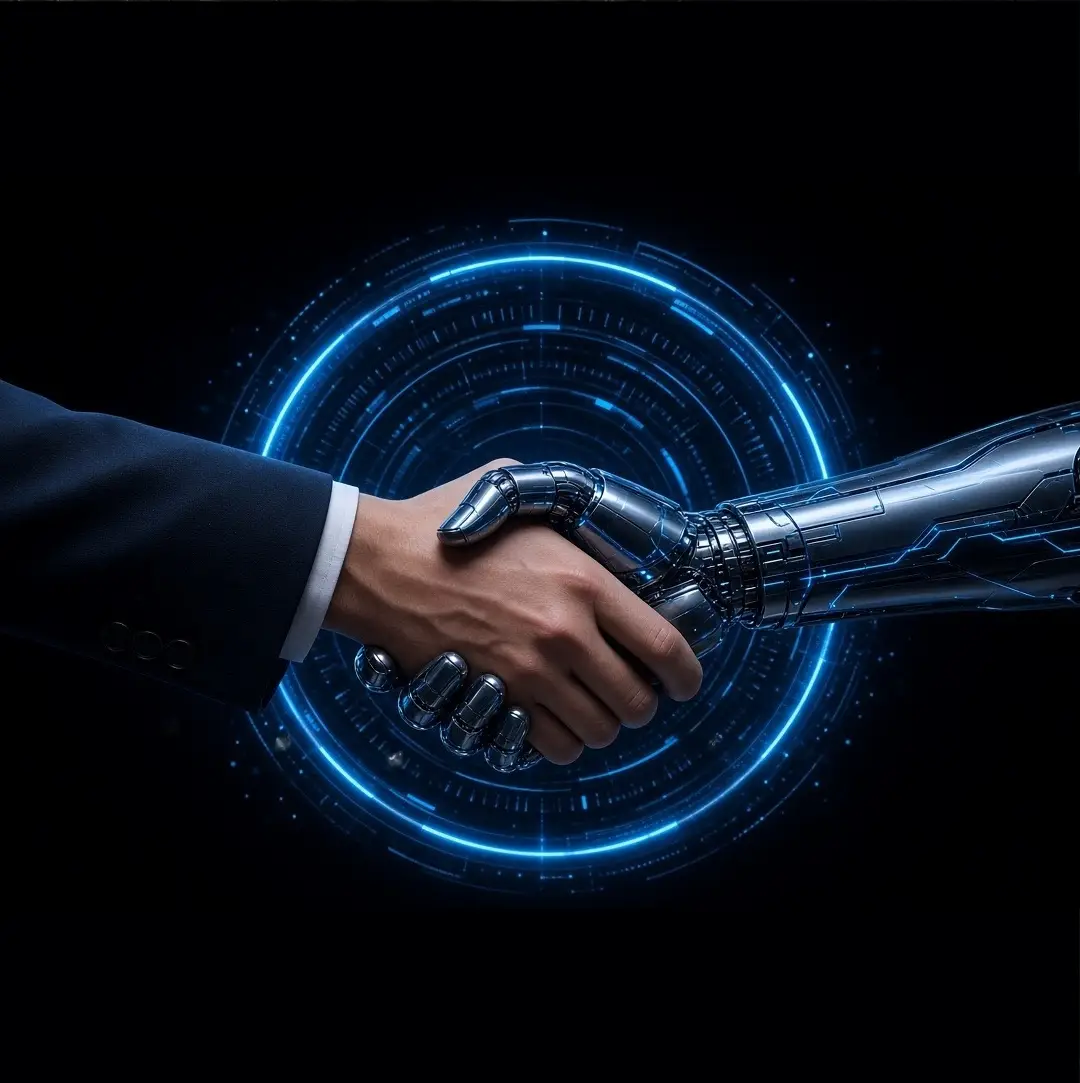
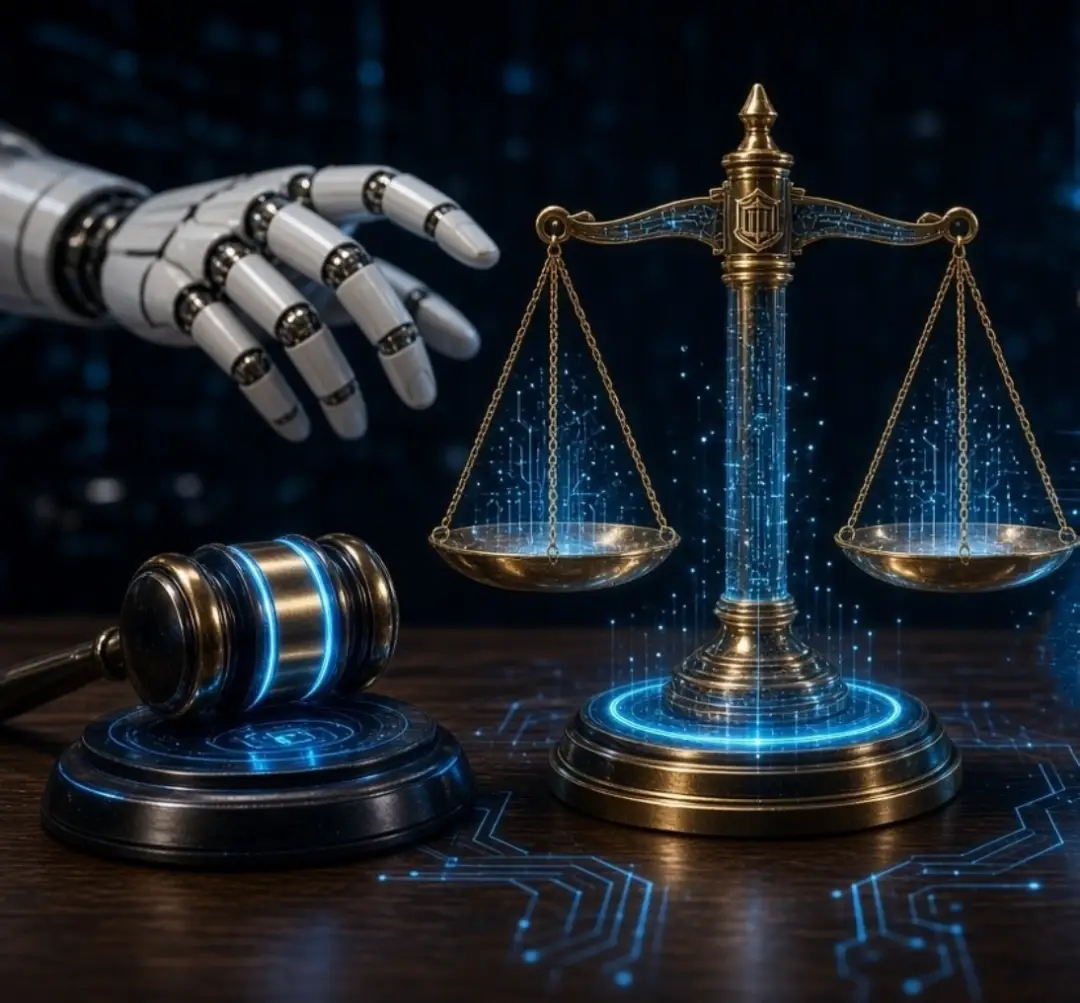
change background color header fixes
change background color header fixes

diff --git a/index.html b/index.html
@@ -20,7 +20,7 @@
   <link rel="stylesheet" href="assets/css/owl.theme.default.min.css">
 </head>
 <body>
- <section class="topbar">
+ <!-- <section class="topbar">
    <div class="container pt-2 pb-2">
      <div class="row d-flex align-items-center">
        <div class="col-xxl-6 col-xl-6 col-lg-6 col-md-12 d-flex justify-content-center justify-content-lg-start">
@@ -42,9 +42,9 @@
        </div>
      </div>
    </div>
- </section>
+ </section> -->
  <header class="headerfixed">
-    <div class="container ">
+    <div class="container">
         <nav class="navbar navbar-expand-lg justify-content-between pt-0 pb-0">
           <a href="#" class="logo"><img src="assets/images/e-logo.webp" alt="" title="" /></a>
             <div class="menu-bar">
@@ -54,11 +54,16 @@
                   <li><a href="#" class="active">Home</a></li>
                   <li><a href="#">About Us</a></li>
                   <li><a href="#">Contact Us</a></li>
-                  
+                  <li><a href="#">Faqs</a></li>
                 </ul>
                 <div class="ms-2 ms-lg-1 ms-xl-5 d-lg-flex gap-2">
                   <a href="#" class="login-btn mb-lg-0 mb-2"><i class="bi bi-box-arrow-in-right me-2"></i>Login</a>
-                 <a href="#" class="attoyer-btn"><i class="bi bi-person-fill me-2"></i>Sign Up</a>
+                  <a href="#" class="attoyer-btn"><i class="bi bi-person-fill me-2"></i>Sign Up</a>
+                  <a href="#" class="attoyer-btn"><i class="bi bi-globe"></i></a>
+                  <!--<select class="select-option">
+                    <option>English</option>
+                    <option>हिन्दी</option>
+                  </select> -->
                </div>  
               </div>
             <button class="mobile-menu-btn">
@@ -74,21 +79,65 @@
 
   <section class="slider-one position-relative">
     <div class="slider-one__carousel owl-carousel owl-theme">
-      <div class="item slider-one__slider-3 tp-bgimg"><img src="assets/images/banner5.png"></div>
-      <div class="item slider-one__slider-3 tp-bgimg"><img src="assets/images/banner6.webp"></div>
-      <div class="item slider-one__slider-3 tp-bgimg"><img src="assets/images/banner2.webp"></div>
-    </div>  
-     <div class="container position-absolute top-0 start-0 end-0 h-100">
-    <div class="row h-100 align-items-center">
-      <div class="col-12 col-md-7 col-lg-6 col-xl-5 slider-content">
-        <h2 class="slider-one__title pb-2 pb-lg-3">e-Vakalatnama</h2>
-        <p class="text-white pb-lg-2 pb-0">The modern platform for legal professionals to manage sign and file digital authorizations with precision confidence and clarity.
-        </p>
-        <p class="slider-one__text mb-0">
-          <a class="attoyer-btn" href="#">Get Started <i class="bi bi-arrow-right"></i></a>
-        </p>
+      <div class="item slider-one__slider-3 tp-bgimg">
+        <img src="assets/images/banner5.png">
+         <div class="container position-absolute top-0 start-0 end-0 h-100">
+            <div class="row h-100 align-items-center">
+              <div class="col-12 col-md-7 col-lg-6 col-xl-5 slider-content">
+                <h2 class="slider-one__title pb-2 pb-lg-3">e-Vakalatnama</h2>
+                <p class="text-white pb-lg-2 pb-0">The modern platform for legal professionals to manage sign and file digital authorizations with precision confidence and clarity.
+                </p>
+                <p class="slider-one__text mb-0">
+                  <a class="attoyer-btn" href="#">Get Started <i class="bi bi-arrow-right"></i></a>
+                </p>
+              </div>
+            </div>
+          </div>
+        </div>
+
+      <div class="item slider-one__slider-3 tp-bgimg">
+        <img src="assets/images/banner6.webp">
+        <div class="container position-absolute top-0 start-0 end-0 h-100">
+            <div class="row h-100 align-items-center">
+              <div class="col-12 col-md-7 col-lg-6 col-xl-5 slider-content">
+                <h2 class="slider-one__title pb-2 pb-lg-3">e-Vakalatnama</h2>
+                <p class="text-white pb-lg-2 pb-0">Designed for lawyers who value clarity, control and convenience.</p>
+                <p class="slider-one__text mb-0">
+                  <a class="attoyer-btn" href="#">Get Started <i class="bi bi-arrow-right"></i></a>
+                </p>
+              </div>
+            </div>
+          </div>
       </div>
-    </div>
+
+      <div class="item slider-one__slider-3 tp-bgimg">
+        <img src="assets/images/banner2.webp">
+         <div class="container position-absolute top-0 start-0 end-0 h-100">
+            <div class="row h-100 align-items-center">
+              <div class="col-12 col-md-7 col-lg-6 col-xl-5 slider-content">
+                <h2 class="slider-one__title pb-2 pb-lg-3">e-Vakalatnama</h2>
+                <p class="text-white pb-lg-2 pb-0">Secure. Smart. Seamless. Your complete digital solution for managing Vakalatnamas with ease
+                </p>
+                <p class="slider-one__text mb-0">
+                  <a class="attoyer-btn" href="#">Get Started <i class="bi bi-arrow-right"></i></a>
+                </p>
+              </div>
+            </div>
+          </div>
+      </div>
+    </div>  
+    <!--  <div class="container position-absolute top-0 start-0 end-0 h-100">
+      <div class="row h-100 align-items-center">
+        <div class="col-12 col-md-7 col-lg-6 col-xl-5 slider-content">
+          <h2 class="slider-one__title pb-2 pb-lg-3">e-Vakalatnama</h2>
+          <p class="text-white pb-lg-2 pb-0">The modern platform for legal professionals to manage sign and file digital authorizations with precision confidence and clarity.
+          </p>
+          <p class="slider-one__text mb-0">
+            <a class="attoyer-btn" href="#">Get Started <i class="bi bi-arrow-right"></i></a>
+          </p>
+        </div>
+      </div>
+    </div> -->  
   </section>
 
   <div class="custom-marquee">
@@ -147,13 +196,11 @@
 
   
 
-  <section class="pt-5 pb-5">
+<!--<section class="pt-5 pb-5">
     <div class="container">
       <div class="row">
         <div class="col-xxl-12 col-xl-12 col-lg-12 col-md-12 pb-5 text-center">
-          <!-- <h4 class="sub-title">what we are expert at</h4> -->
           <h2 class="heading-title">Why Clients Choose Us?</h2>
-          <!-- <div class="divider-line"></div> -->
         </div>
       </div>
       <div class="row">
@@ -200,9 +247,9 @@
               </div>  
           </div>
     </div>
-  </section>
+  </section> -->
 
-  <section class="parallex pt-5 pb-5" style="background-image: url('assets/images/sign1.jpg')">
+  <section class="bg-theme pt-5 pb-5">
     <div class="container position-relative z-1">
       <div class="row">
         <div class="col-lg-12 d-flex flex-column align-items-center pb-2 pt-4">
@@ -324,7 +371,7 @@
   </div>
 </div>
 
-   <section class="parallex space-top space-bottom common-faqs" style="background-image: url('assets/images/libery.jpg')">
+   <!-- <section class="parallex space-top space-bottom common-faqs" style="background-image: url('assets/images/libery.jpg')">
     <div class="container">
       <div class="row">
         <div class="col-xxl-12 col-xl-12 col-lg-12 col-md-12">
@@ -375,7 +422,7 @@
         </div>
       </div>
     </div>
-  </section> 
+  </section> --> 
   
    <footer>
     <div class="container">

diff --git a/assets/css/main.css b/assets/css/main.css
@@ -27,6 +27,7 @@
   --overlay-mix-blend-mode: initial;
   --footer-bg:#090b0f;
   --bs-top-bg:#090b0f;
+  --menu-color:#fff;
 }
 body {color: var(--default-color);background-color: var(--color-white); font-family: var(--default-font);}
 a {
@@ -73,7 +74,26 @@ h6 {
 .social-list li{display: inline-flex; gap: 0.5rem}
 .social-list li a{display: flex; align-items: center; justify-content: center; color: var(--color-white); line-height: normal;}*/
 
-header{transition: var(--transition-5); background: var(--header-bg); /*border-radius: 60px 60px 0px 0px*/}
+header{transition: var(--transition-5); /*background: var(--header-bg); border-radius: 60px 60px 0px 0px*/
+  /* position: absolute;
+    left: 0;
+    right: 0;
+    width: auto;
+    z-index: 11;*/
+    background: linear-gradient(179deg, rgb(0 0 0) 0%, rgb(0 0 0) 100%);
+    }
+.slider-one:before {
+    content: "";
+    display: block;
+    width: 100%;
+    height: 14%;
+    background: linear-gradient(180deg, rgb(0 0 0) 0%, rgb(0 0 0 / 0%) 100%);
+    position: absolute;
+    top: 0;
+    left: auto;
+    right: 0;
+    z-index: 2;
+}    
 .custom-marquee {
     overflow: hidden;
     white-space: nowrap;
@@ -180,7 +200,7 @@ header{transition: var(--transition-5); background: var(--header-bg); /*border-r
 .menu-bar .main-menu ul a {
     display: flex;
     font-weight: 600;
-    color: var(--bs-default-bg);
+    color: var(--menu-color);
     /*font-size: 14px;*/
     text-transform: uppercase;
     justify-content: space-between;
@@ -533,7 +553,7 @@ header{transition: var(--transition-5); background: var(--header-bg); /*border-r
     transition: .4s;
     left: 0;
     border-radius: 0.5rem;
-    background:var(--theme-color);
+    background:var(--color-black);
     transform: translate(100%, 90%);
     z-index: -1;
 }
@@ -989,7 +1009,7 @@ footer{padding-top: 2.5rem;background: var(--footer-bg);}
 
 .slider-content {
     position: relative;
-    z-index: 1;
+    z-index: 2;
     color: var(--color-white);
     animation-name: fadeInUp;
     animation-duration: 1s;
@@ -1050,6 +1070,7 @@ footer{padding-top: 2.5rem;background: var(--footer-bg);}
     .fo-logo img {max-height: 25px;}
 }
 
+.bg-theme{background:#080a15;}
 .parallex {
       position: relative;
       width: 100%;
